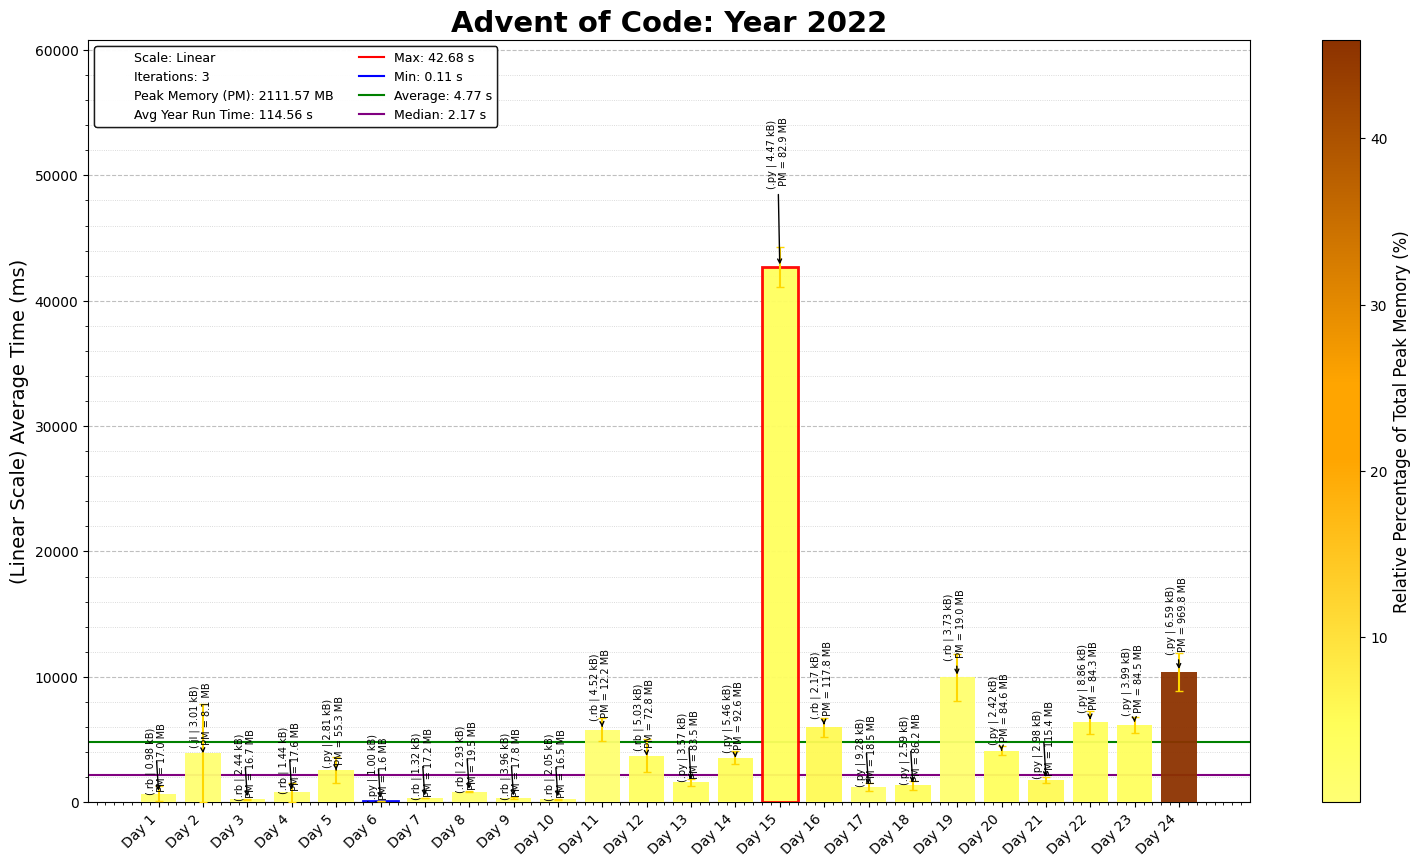
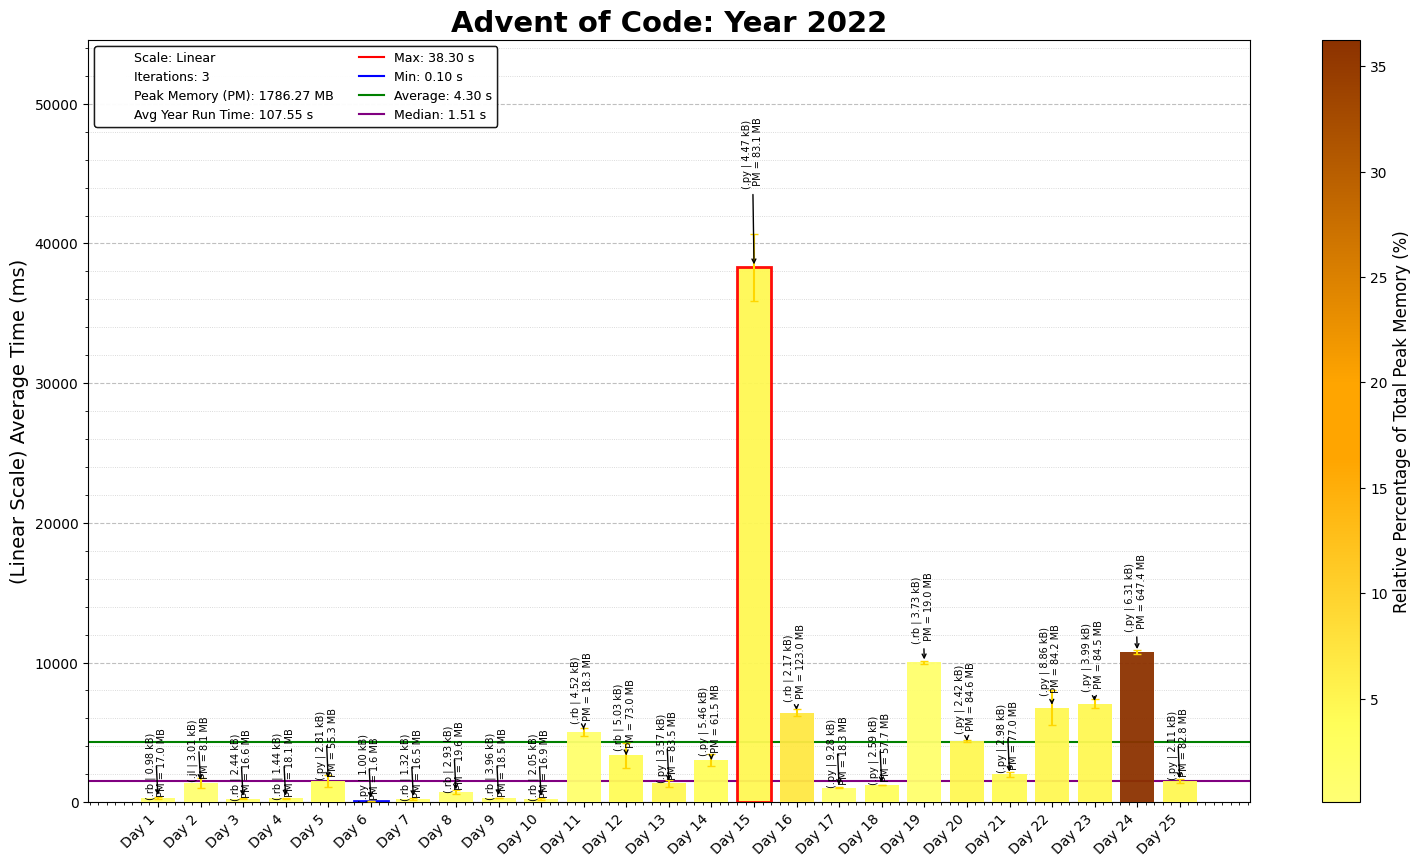
2022 Day 25, Finish 2022 AOC

diff --git a/2022/25/2022Day25.py b/2022/25/2022Day25.py
@@ -1,0 +1,70 @@
+"""Advent of Code - Day 25, Year 2022
+Solution Started: Dec 15, 2024
+Puzzle Link: https://adventofcode.com/2022/day/25
+Solution by: abbasmoosajee07
+Brief: [SNAFU Numbers]
+"""
+
+#!/usr/bin/env python3
+
+import os, re, copy
+import numpy as np
+import pandas as pd
+import matplotlib.pyplot as plt
+
+# Load the input data from the specified file path
+D25_file = "Day25_input.txt"
+D25_file_path = os.path.join(os.path.dirname(os.path.abspath(__file__)), D25_file)
+
+# Read and sort input data into a grid
+with open(D25_file_path) as file:
+    input_data = file.read().strip().split('\n')
+
+def SNAFU_to_decimal(snafu_num):
+    snafu_list = list(snafu_num)[::-1]
+    decimal_num = 0
+    for pos, char in enumerate(snafu_list):
+        pos_power = 5 ** pos
+        if char.isdigit():
+            decimal_num += (pos_power * int(char))
+        elif char == '-':
+            decimal_num += (pos_power * -1)
+        elif char == '=':
+            decimal_num += (pos_power * -2)
+    return decimal_num
+
+def decimal_to_SNAFU(decimal_num):
+    snafu_digits = []  # Stores the resulting SNAFU digits
+
+    while decimal_num != 0:
+        remainder = decimal_num % 5  # Find remainder when dividing by 5
+
+        if remainder == 0:
+            snafu_digits.append('0')
+            carry = 0
+        elif remainder == 1:
+            snafu_digits.append('1')
+            carry = 0
+        elif remainder == 2:
+            snafu_digits.append('2')
+            carry = 0
+        elif remainder == 3:  # Convert 3 into '-2' with a carry of +1
+            snafu_digits.append('=')
+            carry = 2
+        elif remainder == 4:  # Convert 4 into '-1' with a carry of +1
+            snafu_digits.append('-')
+            carry = 1
+        
+        # Adjust the number for the next iteration
+        decimal_num = (decimal_num + carry) // 5
+
+    # Join the digits and reverse to form the final SNAFU number
+    return ''.join(snafu_digits[::-1])
+
+
+
+total_sum = 0
+for num_str in input_data:
+    total_sum += SNAFU_to_decimal(num_str)
+snafu_sum = decimal_to_SNAFU(total_sum)
+print("Final Problem:", snafu_sum) # 2=-1=0

diff --git a/Create_Script.py b/Create_Script.py
@@ -9,8 +9,8 @@ from Polyglot_Setups.Setup_Julia  import create_julia_script
 from Polyglot_Setups.Setup_Python import create_python_script
 
 # Define default values for the Advent of Code challenge
-advent_day  = 21
-advent_year = 2022
+advent_day  = 1
+advent_year = 2023
 author_name = "abbasmoosajee07"
 selected_language = "python"  # Options: "python", "c", "julia", "ruby"
 

diff --git a/README.md b/README.md
@@ -20,9 +20,9 @@ In this repository, you’ll find:
 ## How to Use
 | Year | Stars | Time (s) | Languages        | Repository |
 |------|-------|-----------------|------------------|------------|
-| 2024 |26\*   |19.97 s |Julia/Python/Ruby| [GitHub](https://github.com/abbasmoosajee07/AdventofCode/tree/main/2024) |
+| 2024 |32\*   |38.26 s |Julia/Python/Ruby| [GitHub](https://github.com/abbasmoosajee07/AdventofCode/tree/main/2024) |
 | 2023 |       |                 |                  | [GitHub](https://github.com/abbasmoosajee07/AdventofCode) |
-| 2022 | 46\*  | 95.21 s|Julia/Python/Ruby| [GitHub](https://github.com/abbasmoosajee07/AdventofCode/tree/main/2022) |
+| 2022 | 50\*  |107.55 s|Julia/Python/Ruby| [GitHub](https://github.com/abbasmoosajee07/AdventofCode/tree/main/2022) |
 | 2021 | 50\*  | 40.67 s| Python/Ruby/C    | [GitHub](https://github.com/abbasmoosajee07/AdventofCode/tree/main/2021) |
 | 2020 | 50\*  | 72.70 s| Python/Ruby/C    | [GitHub](https://github.com/abbasmoosajee07/AdventofCode/tree/main/2020) |
 | 2019 | 24\*  | 13.31 s| Python/Ruby/C    | [GitHub](https://github.com/abbasmoosajee07/AdventofCode/tree/main/2019) |
@@ -30,6 +30,6 @@ In this repository, you’ll find:
 | 2017 | 50\*  |131.25 s| Python/Ruby/C    | [GitHub](https://github.com/abbasmoosajee07/AdventofCode/tree/main/2017) |
 | 2016 | 50\*  |264.24 s| Python/Ruby/C    | [GitHub](https://github.com/abbasmoosajee07/AdventofCode/tree/main/2016) |
 | 2015 | 50\*  |530.01 s| Python/Ruby/C/R  | [GitHub](https://github.com/abbasmoosajee07/AdventofCode/tree/main/2015) |
-| **Total** | **396\*** |                 |                  |            |
+| **Total** | **406\*** |                 |                  |            |
 
 ![alt text](analyse_AOC/overall_summary.png)

diff --git a/2022/README_2022.md b/2022/README_2022.md
@@ -33,3 +33,5 @@ This repository contains coding solutions for the 2022 Advent of Code, focusing 
 ---
 
 The 2022 challenges explore 2D/3D spatial reasoning, set manipulations, and creative string processing.
+
+![alt text](2022_Advent_Calendar.png)
